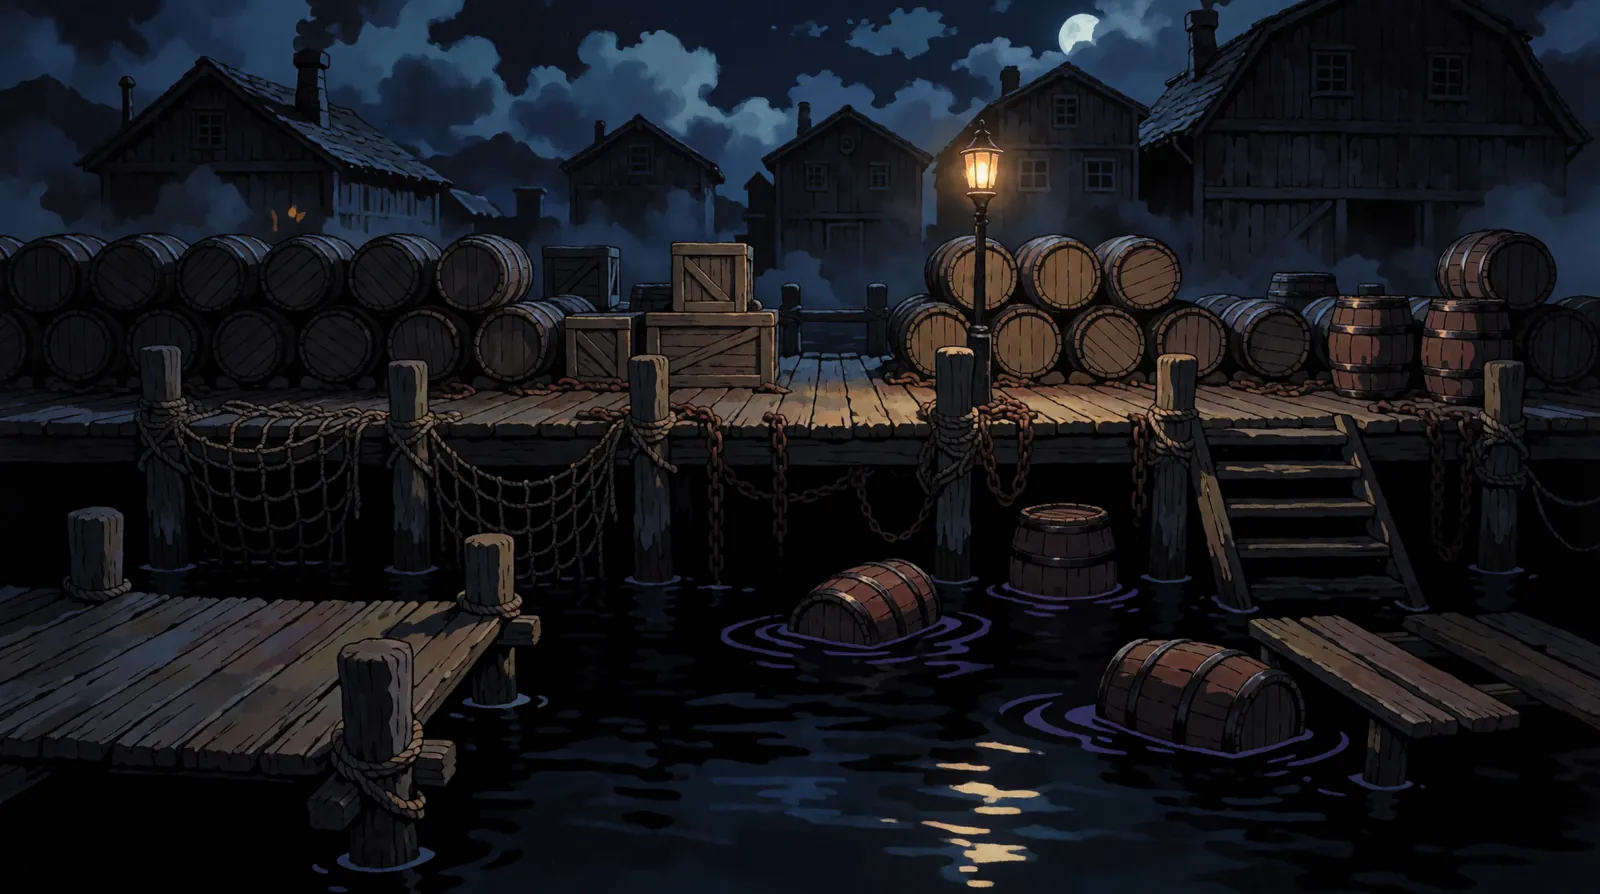
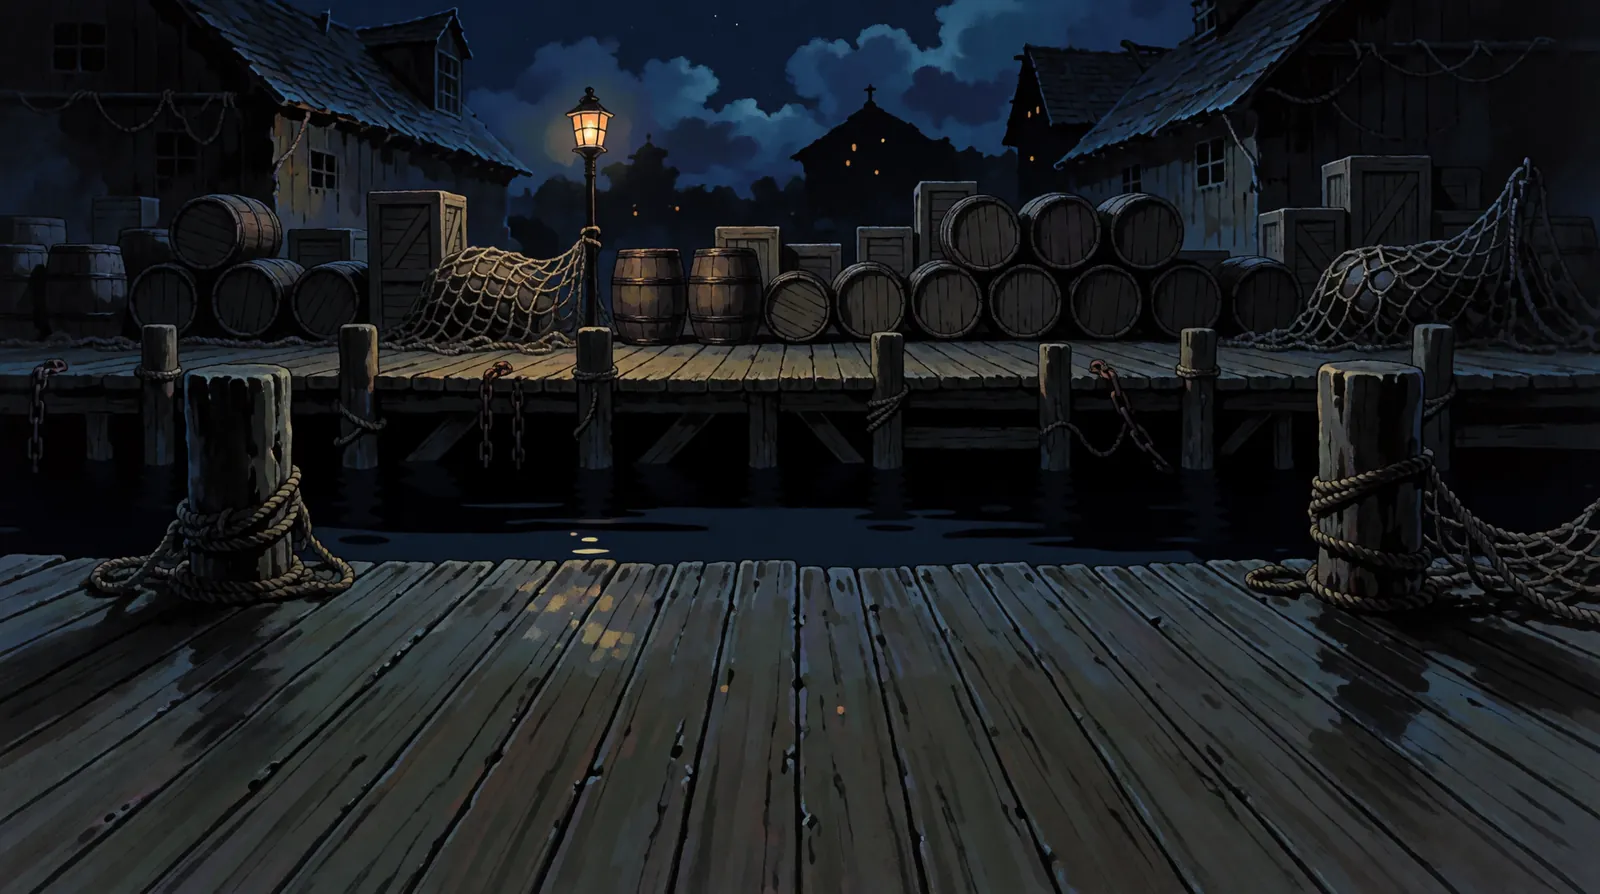
Monster Hunt: the docks redrawn with a pier deck in front; Bru stands on it
Claude-Session: https://claude.ai/code/session_01JTmPY7EACNp6BMRqr9kFJq

diff --git a/game/js/hunt-map.js b/game/js/hunt-map.js
@@ -23,13 +23,11 @@
   M.lairOf = topic => Object.keys(M.LAIRS).find(k => M.LAIRS[k].topics.includes(String(topic || ''))) || 'outskirts';
   M.bg = key => DIR + (M.LAIRS[key] ? key : 'outskirts') + (innerWidth > 700 || innerWidth > innerHeight ? '-wide' : '-tall') + '.webp';
   // Each step of a battle stands somewhere else in the same place.
-  // Where a place's ground is, per lair: at the docks only the pier on the left of the picture holds Bru up, so the
-  // steps move along it instead of out over the water.
-  const SHIFT = { track: 18, fight: 50, retry: 62, pin: 82 }, GROUND = { docks: { track: 0, fight: 6, retry: 10, pin: 14 } };
+  // Per lair, where its ground is, if a picture needs it: GROUND moves the steps along the part of it that holds Bru
+  // up, and LIFT stands her higher on a wide screen (% of the scene's height). Every picture now has ground across
+  // its whole bottom (the docks were redrawn with a pier deck in front, Nov 16), so both are empty.
+  const SHIFT = { track: 18, fight: 50, retry: 62, pin: 82 }, GROUND = {}, LIFT = {};
   M.shift = (step, key) => ((GROUND[key] || SHIFT)[step] ?? SHIFT[step] ?? 50);
-  // How far up the scene her feet stand on a wide screen (% of its height): at the docks the pier's planks are above
-  // the water line at the bottom of the picture, so she stands up on them, feet showing.
-  const LIFT = { docks: 15 };
   M.lift = key => LIFT[key] || 0;
   // Warm the map so it's there the moment the hunting grounds open.
   M.warm = () => { const i = new Image(); i.src = M.MAP; };

diff --git a/game/CREDITS.md b/game/CREDITS.md
@@ -41,7 +41,7 @@ Everything here was first made for or gathered by the first game, [Isekai'd Into
 | Bru's notebook (`assets/img/hunt/notebook.webp`): a navy leather field notebook with brass corners and a glowing circuit pattern | Generated for this game with Google Gemini (gemini-3-pro-image) on 2026-11-16, prompted as a game item icon in the Monster Hunt style with Bru's front pose (`assets/img/hunt/bru/body-front.webp`) and the Monster Hunt card's poster as references; one pick of two, green keyed out, resized to 256 px | Generated for this game; used under Google's Gemini API terms for generated output | Monster Hunt's Debrief: the notebook under the verdict that opens Bru's notes |
 | Monster Hunt's notice board (`assets/img/hunt/notice-board.webp`): a wooden bounty board on two posts with a shingled roof and a hanging lantern, its plank face left empty for the posters | Generated for this game with Google Gemini (gemini-3-pro-image, generateContent) on 2026-11-16, prompted for a 2D anime cel-style notice board at night in warm lantern light on plain green, with the Monster Hunt card's poster (`assets/video/cards/hunt.webp`) and the street (`assets/img/hunt/street.webp`) as style references; green keyed out, cropped and resized to 900×828 | Generated for this game; used under Google's Gemini API terms for generated output | Bru's bounty board (`js/hunt-street.js`): the board in the street the wanted posters are pinned to |
 | Monster Hunt's hunting-grounds map (`assets/img/hunt/lairs/map.webp`): a hand-drawn parchment map of the town with the docks, the toll gate, the catacombs and the keep around it | Generated by the project owner with Sogni (Krea 2 Turbo) on 2026-11-16 from Claude's prompts (`lair-prompts.md`), the first of four; resized to 1200×1200 | Made by the project owner for this game | Monster Hunt's map between battles (`js/hunt.js`, `js/hunt-map.js`) |
-| Monster Hunt's lair backdrops (`assets/img/hunt/lairs/{docks,gate,catacombs,keep,outskirts}-{wide,tall}.webp`): the Sunken Docks, the Toll Gate, the Partition Catacombs, the Warden's Keep and the Outskirts at night, each wide and tall | Generated by the project owner with Sogni (Krea 2 Turbo) on 2026-11-16 from Claude's prompts (`lair-prompts.md`), one picked of four each; resized to 1600×894 (wide) and 860×1540 (tall) | Made by the project owner for this game | Monster Hunt's battles (`js/hunt-debrief.js`, `js/hunt-map.js`): each monster is fought in its lair, and Bru walks there first |
+| Monster Hunt's lair backdrops (`assets/img/hunt/lairs/{docks,gate,catacombs,keep,outskirts}-{wide,tall}.webp`): the Sunken Docks, the Toll Gate, the Partition Catacombs, the Warden's Keep and the Outskirts at night, each wide and tall | Generated by the project owner with Sogni (Krea 2 Turbo) on 2026-11-16 from Claude's prompts (`lair-prompts.md`), one picked of four each (the docks' wide picture redrawn the same day with a pier deck in front); resized to 1600×894 (wide) and 860×1540 (tall) | Made by the project owner for this game | Monster Hunt's battles (`js/hunt-debrief.js`, `js/hunt-map.js`): each monster is fought in its lair, and Bru walks there first |
 | The Exam Sprint card's looping video and its poster (`assets/video/cards/sprint.mp4`, `sprint.webp`): Postmaster Coo waves you down the road while Lexi seals a daemon's jar | Animated by Ladi with MiniMax H3 (Reference to Video) on [Sogni](https://www.sogni.ai), from Sogni personas of Lexi and Postmaster Coo built on this game's portraits and PixelLab full bodies, over a background plate Ladi generated with Sogni text-to-image (krea2turbo) on 2026-11-16; trimmed and looped with ffmpeg | Generated for this game; used under Sogni's and PixelLab's terms for generated output | The title screen's games carousel, the Exam Sprint card's picture |
 | The Multiplayer card's looping video and its poster (`assets/video/cards/mp.mp4`, `mp.webp`): the leads vote on the next dungeon door by a show of hands while Dutch walks out of the café, waves, and walks back in | Animated by Ladi with MiniMax H3 (Reference to Video) on [Sogni](https://www.sogni.ai), from Sogni personas of Kai, Mira, Dutch and Seo-yeon built on this game's lead art and PixelLab full bodies, over a background plate Ladi generated with Sogni text-to-image (krea2turbo) on 2026-11-16 and edited in Sogni (flux image edit) to open the café doorway; trimmed and looped with ffmpeg | Generated for this game; used under Sogni's and PixelLab's terms for generated output | The title screen's games carousel, the Multiplayer card's picture |
 | Chapter 1's leads' and Freya's expressions (`assets/img/portraits/mira-*`, `kai-*`, `seoyeon-*`, `dutch-*` and `freya-*` other than the three above: smile, sad, angry, surprised and tired, with `anger`, `shock`, `grief` and `warm` as copies of angry, surprised, sad and smile for the chapter code's face names; Freya also has laugh, and her old smiling neutral is now `freya-smile`/`freya-warm`) | Generated for this game with [PixelLab](https://pixellab.ai) on Ladi's subscription on 2026-10-21: text edits (`edit-image`, `edit-image-pro-flash`, `edit-images-v2`) of each character's own neutral portrait, at its 1x size, scaled up 3x with hard pixel edges | Used under PixelLab's [Terms of Service](https://pixellab.ai/termsofservice) | Faces in dialogue |
